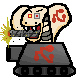
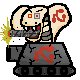
Added more Snake Tank art + some more logic for Tank
+ New art for reflecting bomb.
+ New art for injured states.
+ Now plays hit sound when reflecting bomb.

diff --git a/src/characters/bosses/SnakeTank.java b/src/characters/bosses/SnakeTank.java
@@ -73,6 +73,9 @@ public class SnakeTank extends GCharacter {
 	// Flag indicating whether we've been damaged by the Nuke and will try to deflect it next time
 	private boolean willDeflect = false;
 	
+	// Flag indicating whether we've just deflected the Nuke (Used for rendering)
+	private boolean deflected = false;
+	
 	// Attack counter for deciding behavior
 	private int attCount = 0;
 	
@@ -150,7 +153,11 @@ public class SnakeTank extends GCharacter {
 				statePath = "_ALERT";
 				break;
 			case SnakeTank.STATE_PREP_CHAINGUN:
-				statePath = "_PREP_GUN";
+				if(this.attCount < 3) {
+					statePath = "_PREP_GUN";
+				} else {
+					statePath = "_PREP_GUN2";
+				}
 				break;
 			case SnakeTank.STATE_ATT_CHAINGUN:
 				statePath = "_ATT_GUN";
@@ -162,7 +169,11 @@ public class SnakeTank extends GCharacter {
 				if(this.attCount == 0) {
 					statePath = "_CANNON";
 				} else if (this.willDeflect) {
-					// TODO
+					if(this.deflected) {
+						statePath = "_ATT_DEFLECT";
+					} else {
+						statePath = "_PREP_DEFLECT";
+					}
 				}
 				
 				// Otherwise nothing
@@ -472,6 +483,10 @@ public class SnakeTank extends GCharacter {
 				
 				// Only look for Nuke if we're going to try to deflect it
 				if(this.willDeflect) {
+					
+					// Reset deflected flag
+					this.deflected = false;
+					
 					// Get reference to the Nuke
 					for(GCharacter npc: EntityManager.getInstance().getNPCManager().getCharacters()) {
 						if(npc != this && npc instanceof SnakeNuke) {
@@ -481,6 +496,14 @@ public class SnakeTank extends GCharacter {
 							// Swat the Nuke if next to us and headed in our direction
 							if(nuke.getXPos() == (this.xPos - 1) && 
 									nuke.getYPos() == this.yPos && nuke.xSpeed == 1) {
+								
+								// Mark deflection
+								this.deflected = true;
+								
+								// Play hit sound
+								SoundPlayer.playWAV(GPath.createSoundPath("player_SWING.wav"), 5);
+								
+								// Set new Nuke direction
 								if(this.yPos >= 4) {
 									nuke.setDirection(0, -1);
 								} else {
